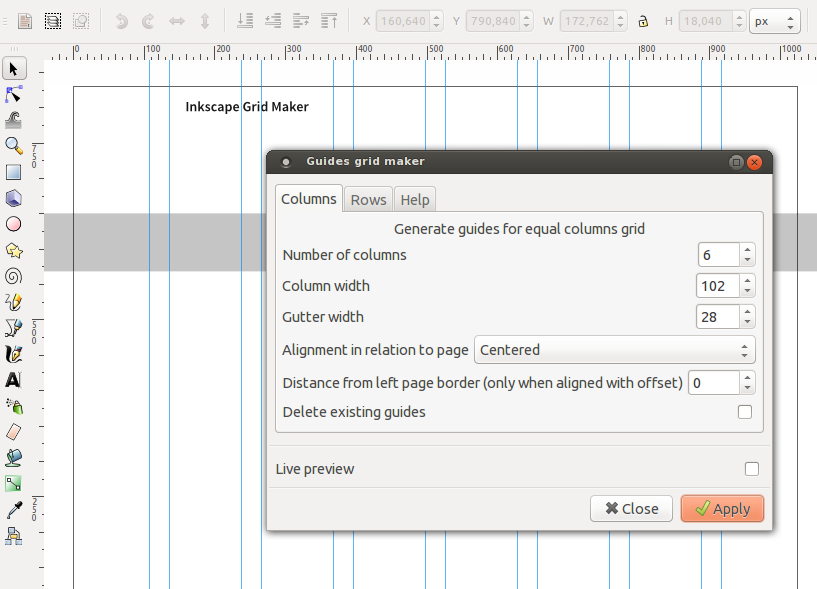
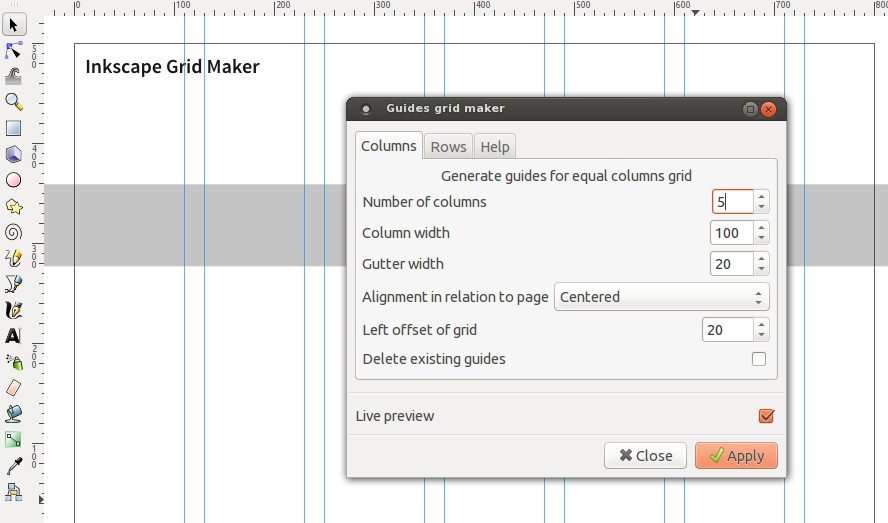
offset for all alignments, some variable names changed

Changed region(s): [[0.0, 0.0, 1.0, 1.0]]

diff --git a/grid-maker-extension/grid_maker.py b/grid-maker-extension/grid_maker.py
@@ -90,7 +90,7 @@ def deleteAllGuides(document):
         for element in children:
                 nv.remove(element)
 
-class Grid_Creator(inkex.Effect):
+class Grid_Maker(inkex.Effect):
 
         def __init__(self):
                 """
@@ -112,13 +112,13 @@ class Grid_Creator(inkex.Effect):
                 self.OptionParser.add_option('--column_alignment',
                         action = 'store',type = 'string',
                         dest = 'column_alignment',default = 'centered',
-                        help = 'Alignment of columns')
+                        help = 'Alignment of the columns in relation to the document')
 
                 # Define string option "--column_offset"
                 self.OptionParser.add_option('--column_offset',
                         action = 'store',type = 'string',
                         dest = 'column_offset',default = '0',
-                        help = 'Space between grid and left page border')
+                        help = 'Offset distance from the left')
 
                 # Define string option "--columns"
                 self.OptionParser.add_option('--columns',
@@ -136,7 +136,7 @@ class Grid_Creator(inkex.Effect):
                 self.OptionParser.add_option('--column_gutter',
                         action = 'store',type = 'string',
                         dest = 'column_gutter',default = 0,
-                        help = 'Spacing between columns (gutter)')
+                        help = 'Spacing between columns')
 
                 # Define boolean option "--delete_existing_guides"
                 self.OptionParser.add_option('--delete_existing_guides',
@@ -150,13 +150,13 @@ class Grid_Creator(inkex.Effect):
                 self.OptionParser.add_option('--row_alignment',
                         action = 'store',type = 'string',
                         dest = 'row_alignment',default = 'centered',
-                        help = 'Alignment of rows')
+                        help = 'Alignment of rows in relation to the document')
 
                 # Define string option "--row_offset"
                 self.OptionParser.add_option('--row_offset',
                         action = 'store',type = 'string',
                         dest = 'row_offset',default = '0',
-                        help = 'Space between grid and top page border')
+                        help = 'Offset distance from the top')
 
                 # Define string option "--rows"
                 self.OptionParser.add_option('--rows',
@@ -174,7 +174,7 @@ class Grid_Creator(inkex.Effect):
                 self.OptionParser.add_option('--row_gutter',
                         action = 'store',type = 'string',
                         dest = 'row_gutter',default = 0,
-                        help = 'Spacing between rows (gutter)')
+                        help = 'Spacing between rows')
 
                 # Define boolean option "--delete_existing_guides"
                 self.OptionParser.add_option('--delete_existing_guides2',
@@ -198,7 +198,7 @@ class Grid_Creator(inkex.Effect):
 
                 # second tab - rows
                 row_alignment = self.options.row_alignment
-                row_offset_from_top = int(self.options.row_offset)
+                row_offset = int(self.options.row_offset)
                 rows = int(self.options.rows)
                 row_height = int(self.options.row_height)
                 row_gut = int(self.options.row_gutter)
@@ -220,9 +220,6 @@ class Grid_Creator(inkex.Effect):
                 # total height (rows and gutters)
                 total_row_height = rows*row_height + (rows+1)*row_gut
 
-                # row offset from top converted to offset from bottom (origin is at left BOTTOM)
-                row_offset = canvas_height - total_row_height - row_offset_from_top
-
                 # getting edges coordinates
                 # h_orientation = '0,' + str(round(canvas_width,4))
                 # v_orientation = str(round(canvas_height,4)) + ',0'
@@ -233,25 +230,21 @@ class Grid_Creator(inkex.Effect):
                         if (delete_existing):
                                 deleteAllGuides(self.document)
 
-                        # Set horizontal shift depending on grid alignment
+                        # Set horizontal shift (starting position for drawing) depending on grid alignment
                         if (col_alignment == 'centered'):
 
-                                hor_shift = round(canvas_width/2) - round(total_col_width/2)
+                                hor_start = round(canvas_width/2) - round(total_col_width/2) + col_offset
 
                         if (col_alignment == 'left'):
 
-                                hor_shift = 0
+                                hor_start = col_offset
 
                         if (col_alignment == 'right'):
 
-                                hor_shift = canvas_width - total_col_width
-
-                        if (col_alignment == 'custom'):
-
-                                hor_shift = col_offset
+                                hor_start = canvas_width - total_col_width + col_offset
 
                         # create column guides with column_spacings
-                        drawColumnGuides(cols,col_width,col_gut,nv,hor_shift)
+                        drawColumnGuides(cols,col_width,col_gut,nv,hor_start)
 
                 elif (tab == "\"rows\""):
 
@@ -259,30 +252,26 @@ class Grid_Creator(inkex.Effect):
                         if (delete_existing2):
                                 deleteAllGuides(self.document)
 
-                        # Set vertical shift depending on grid alignment
-                        if (row_alignment == 'centered'):
-
-                                vert_shift = round(canvas_height/2) - round(total_row_height/2)
-
+                        # Set vertical shift depending on grid alignment (0,0 is at BOTTOM left of document)
                         if (row_alignment == 'top'):
 
-                                vert_shift = canvas_height - total_row_height
+                                vert_start = round(canvas_height) - total_row_height - row_offset
+
+                        if (row_alignment == 'centered'):
+
+                                vert_start = round(canvas_height/2) - round(total_row_height/2) - row_offset
 
                         if (row_alignment == 'bottom'):
 
-                                vert_shift = 0
+                                vert_start =  -row_offset
 
-                        if (row_alignment == 'custom'):
-
-                                vert_shift = row_offset
-
-                        # create row guides
-                        drawRowGuides(rows,row_height,row_gut,nv,vert_shift)
+                        # create row guides (draw bottom up)
+                        drawRowGuides(rows,row_height,row_gut,nv,vert_start)
 
 
 
 # Create effect instance and apply it.
-effect = Grid_Creator()
+effect = Grid_Maker()
 effect.affect()
 
 ## end of file grid_maker.py ##

diff --git a/README.md b/README.md
@@ -16,9 +16,10 @@ Example:
 ### Features
 
 - Define number of columns, column width and gutter width to generate a grid;
-- Gutter width can be set to zero (but this creates double guides, sorry)
-- Choose to align the grid in relation to the page: left aligned, centered, right aligned, or left aligned with an offset (a distance from the left border); this offset can be negative;
-- Same with rows (horizontal guides)
+- Gutter width can be set to zero (but this creates double guides, sorry);
+- Choose to align the grid in relation to the page: left aligned, centered or right aligned;
+- On top of this alignment, you can set an offset from to the right (for columns), or down (for rows); this offset can be negative;
+- Same with rows - horizontal guides with gutters and offset;
 - Option to delete all existing guides before generating the new guides
 - Live preview to test different widths
 
